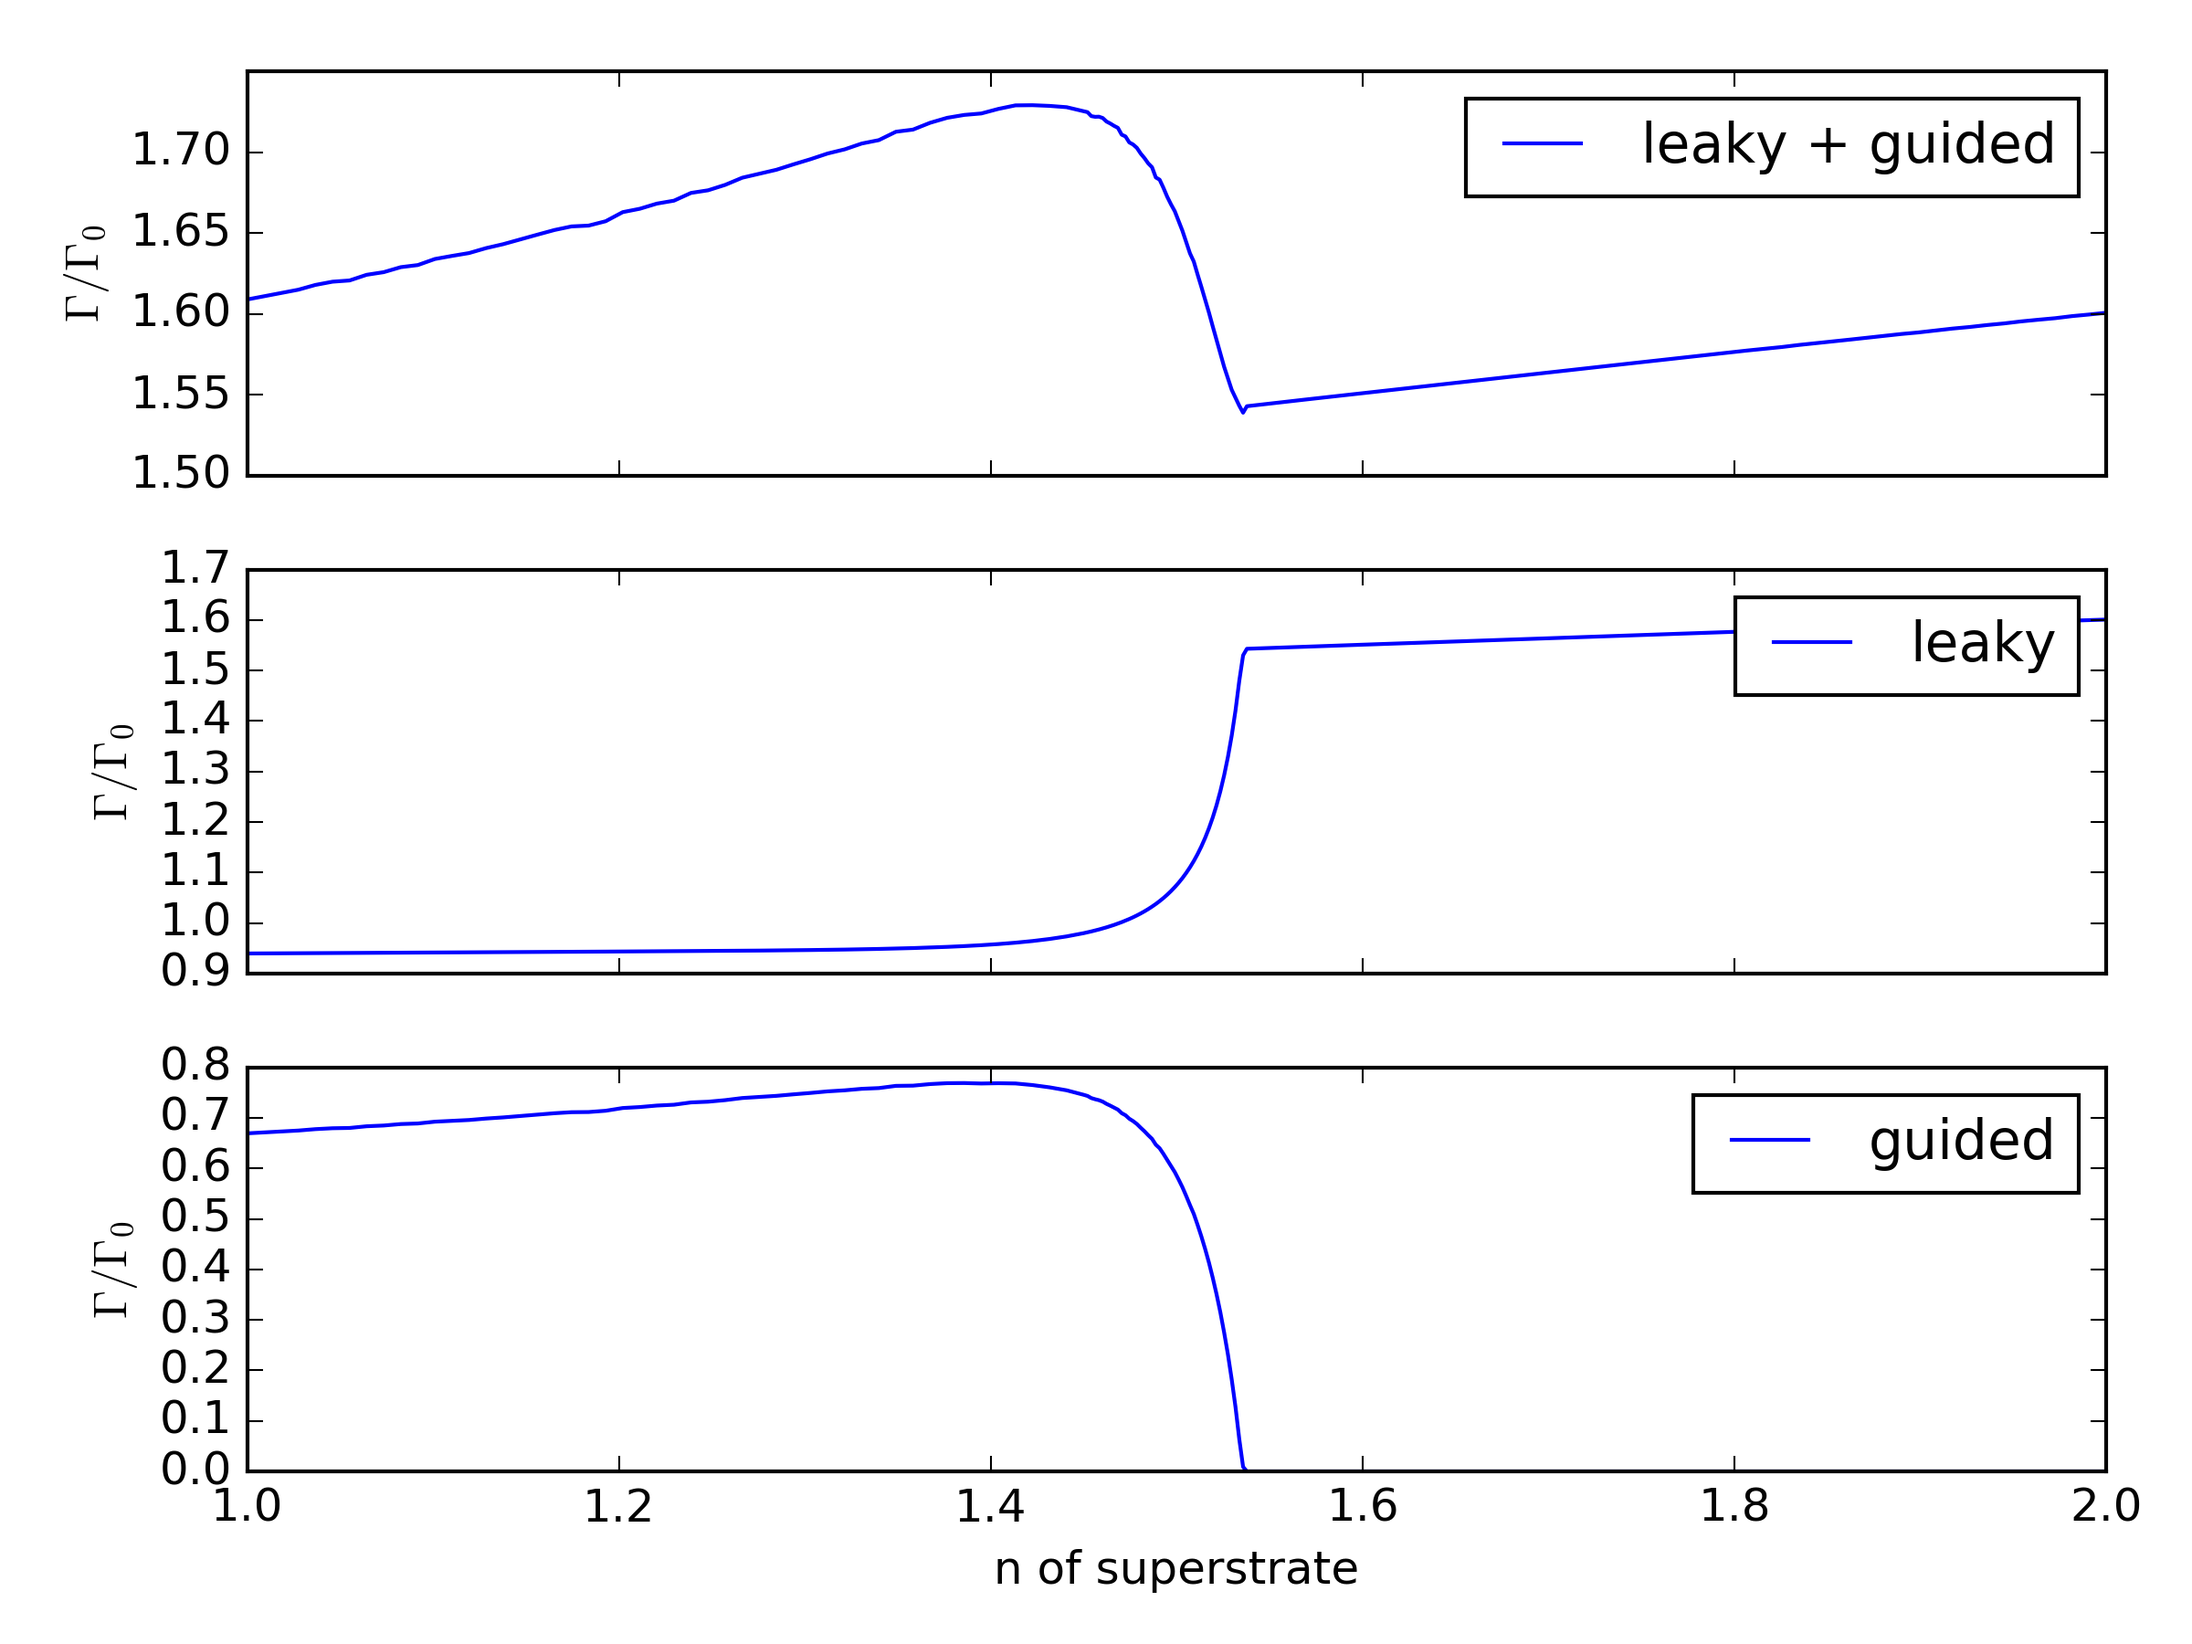
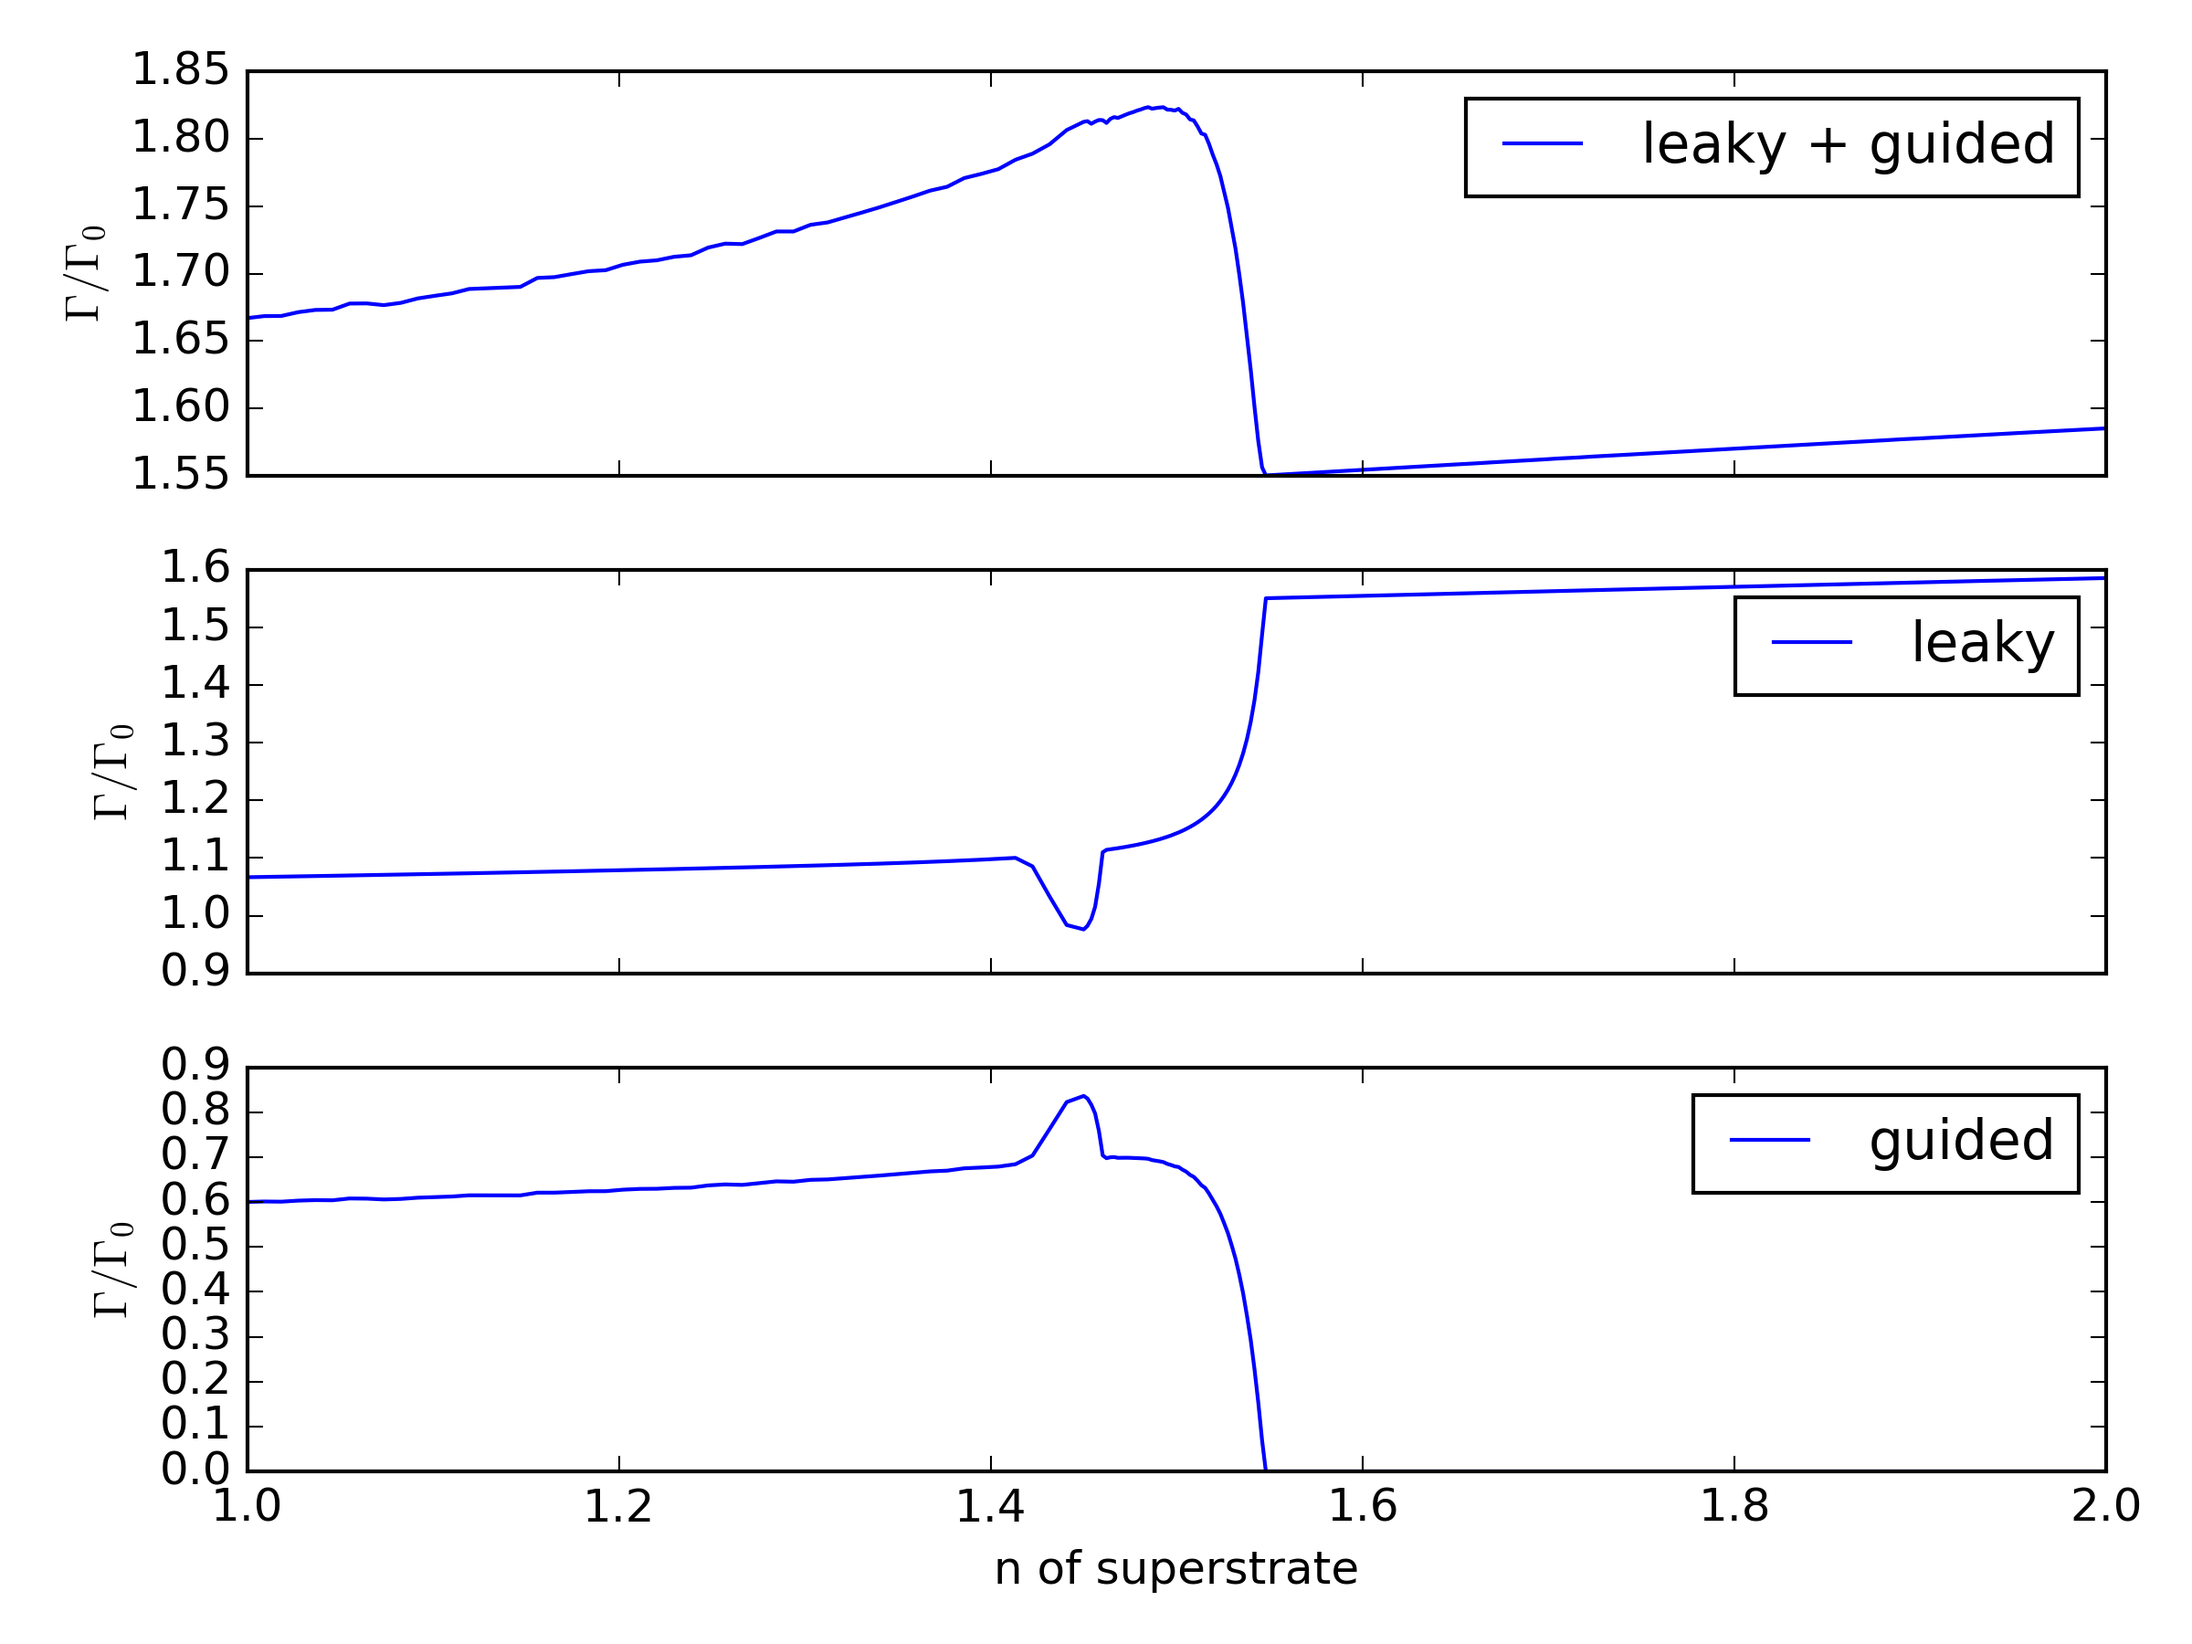
finally have the right results - error was takine 1% either side of lam0 for vg calculation. ATM taking +- 1nm but can probably be improved somehow...

diff --git a/lifetmm/Methods/TransferMatrix.py b/lifetmm/Methods/TransferMatrix.py
@@ -386,11 +386,11 @@ class TransferMatrix:
         lam_vac = self.lam_vac
 
         # Take 1% either side of the emission wavelength
-        self.set_vacuum_wavelength(int(0.995 * lam_vac))
+        self.set_vacuum_wavelength(int(1 + lam_vac))
         omega1 = self.omega
         beta_lower = self.calc_guided_modes(verbose=False, normalised=False)
 
-        self.set_vacuum_wavelength(int(1.005 * lam_vac))
+        self.set_vacuum_wavelength(int(-1 + lam_vac))
         omega2 = self.omega
         beta_upper = self.calc_guided_modes(verbose=False, normalised=False)
 
@@ -400,7 +400,7 @@ class TransferMatrix:
         d_beta = beta_upper - beta_lower
         d_omega = omega2 - omega1
         vg = d_omega / d_beta
-
+        logging.debug(vg)
         # Reset the vacuum emission wavelength to start of function
         self.set_vacuum_wavelength(lam_vac)
         return vg

diff --git a/lifetmm/Examples/erbium_film.py b/lifetmm/Examples/erbium_film.py
@@ -271,7 +271,7 @@ if __name__ == "__main__":
     lam0 = 1540
 
     # Film thickness
-    d_etds = 980
+    d_etds = lam0  # 980
 
     # Material refractive index at lam0
     sio2 = 1.45
@@ -281,5 +281,5 @@ if __name__ == "__main__":
     # t2()
     # t2_leaky()
     # t2_fig4()
-    t2_guided()
-    # t2_spe_vs_n()
+    # t2_guided()
+    t2_spe_vs_n()

diff --git a/lifetmm/Examples/creatore.py b/lifetmm/Examples/creatore.py
@@ -479,10 +479,10 @@ if __name__ == "__main__":
 
     # fig3()
     # fig4()
-    fig5()
+    # fig5()
     # fig6()
     # fig7()
     # fig8()
     # fig9()
     # fig13a()
-    # fig13b()
+    fig13b()
